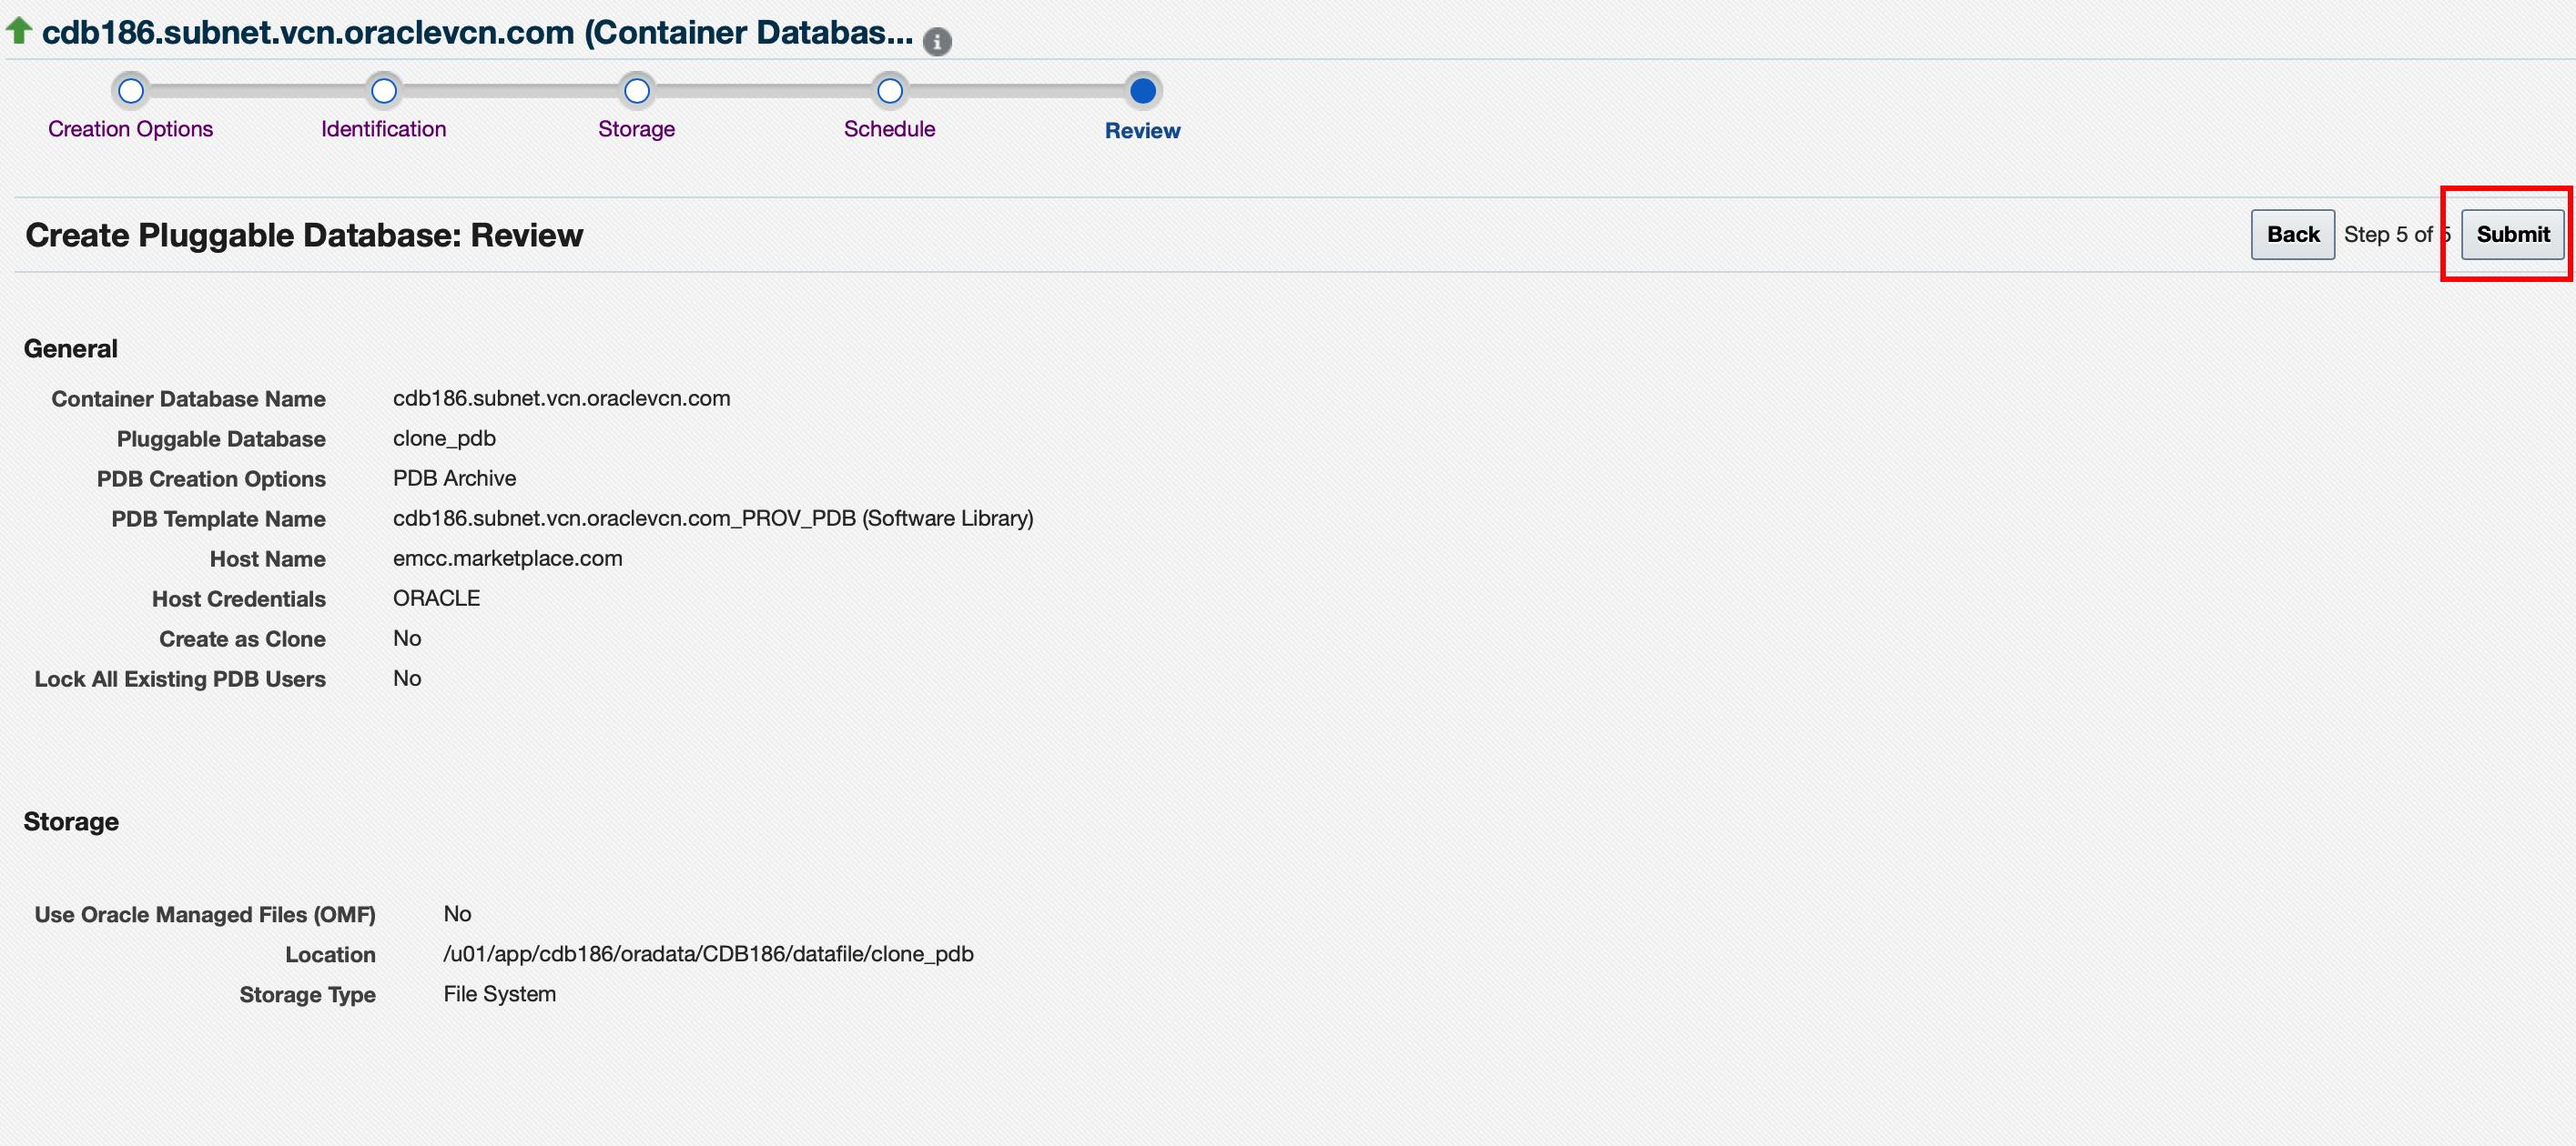
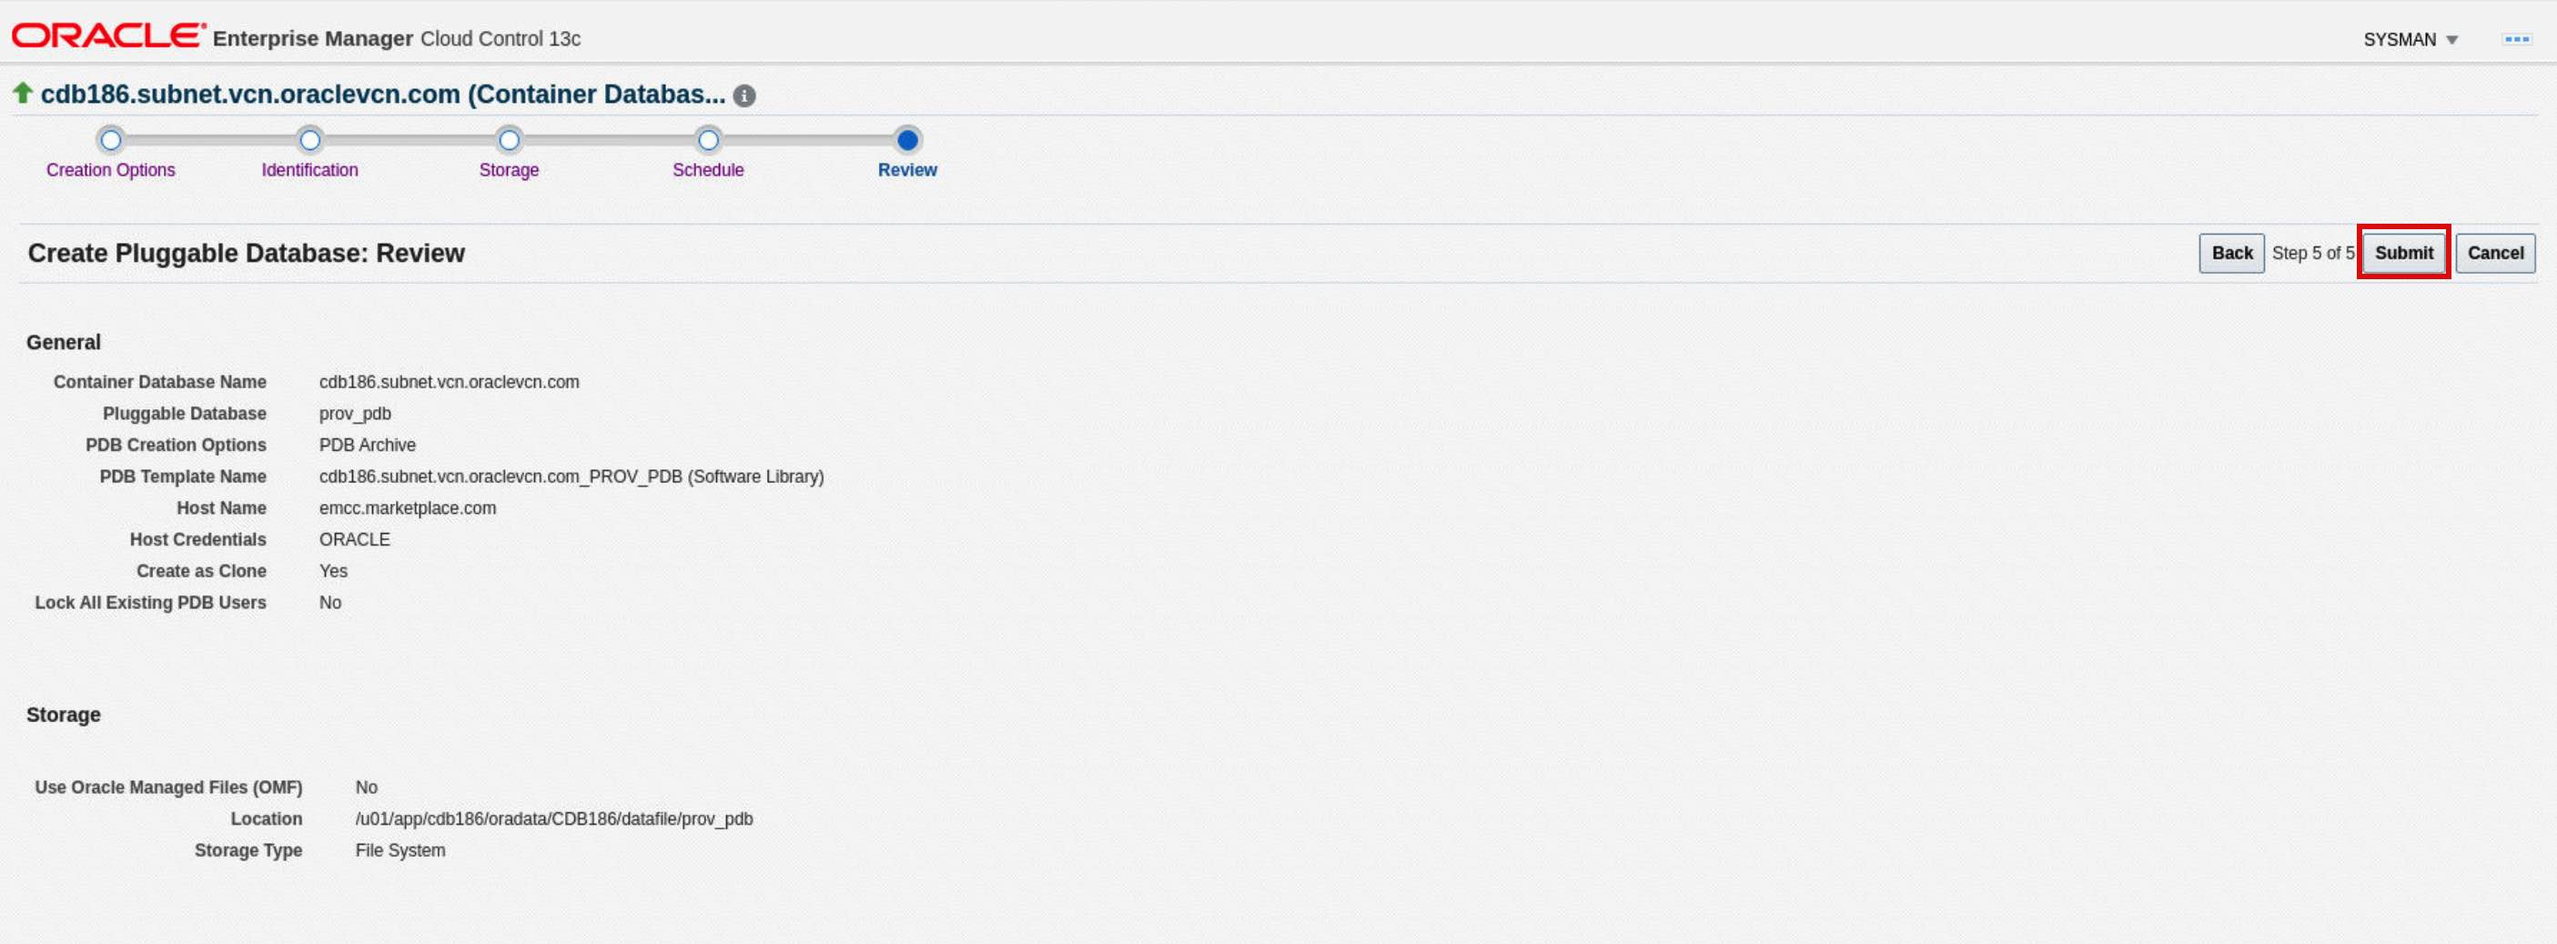
QA Changes

diff --git a/enterprise-manager/emcc-new/em-multitenant-lifecycle-automation/em-multitenant-lifecycle-automation.md b/enterprise-manager/emcc-new/em-multitenant-lifecycle-automation/em-multitenant-lifecycle-automation.md
@@ -74,7 +74,9 @@ The objective of this workshop is to highlight Oracle Enterprise Manager 13c Lif
 
 
 
-5.  In the PDB Operations section, select **Create New Pluggable Databases**, Click Launch
+5.  In the PDB Operations section, select **Create New Pluggable Databases**.
+
+    Click **Launch**
 
     ![](images/2248640eabc0efa2fb32293ec07fb389.jpg " ")
 
@@ -212,9 +214,10 @@ The objective of this workshop is to highlight Oracle Enterprise Manager 13c Lif
 
     ![](images/Task2-step6-latest.jpg " ")
 
-7.   Schedule immediately or later .
-    Click **Next**.
-  ![](images/Task2-Step7.jpg " ")
+7.   Schedule **immediately** or choose later .
+    
+     Click **Next**.
+          ![](images/Task2-Step7.jpg " ")
 
 
 
@@ -234,7 +237,7 @@ The objective of this workshop is to highlight Oracle Enterprise Manager 13c Lif
 
     ![](images/bdbafe949b2bc880e2a09b82f9edaf8a.jpg " ")
 
-8.  Once procedure successfully complete, You can Navigate to **Targets** >> **Databases**.
+8.  Once procedure successfully completes, You can Navigate to **Targets** >> **Databases**.
 
      Click on CDB186 and you will see the PDB you unplugged is no longer in the list.
 
@@ -256,12 +259,15 @@ The objective of this workshop is to highlight Oracle Enterprise Manager 13c Lif
     ![](images/Select-CDB-main-flow-helper.jpg " ")
       ![](images/Select-CDB-main-flow.jpg " ")
 
-12. In the PDB Operations section, select **Create New Pluggable Databases** , Click **Launch**.
+12. In the PDB Operations section, select **Create New Pluggable Databases** and click **Launch**.
 
     ![](images/2248640eabc0efa2fb32293ec07fb389.jpg " ")
 
-13. On the Create Pluggable Database Wizard, in the Create Options section, select **Plug an unplugged PDB**. Select Named credentials **“ORACLE”**
-Click **Next**
+13. On the Create Pluggable Database Wizard, in the PDB Creation Options section, select **Plug an unplugged PDB**. 
+
+    Select Named credentials **“ORACLE”**
+
+    Click **Next**
 
 
     ![](images/5427807b6e4c677bd991497cfc5468ce.jpg " ")
@@ -269,7 +275,7 @@ Click **Next**
 
 14. The Identification page has 3 sections. 
 
-    Under the *PDB Name* section provide a name for the PDB(prov_pdb) and select the option *create as clone*, this ensures Oracle generates a unique PDB DBID, GUID, and other identifiers expected for the new PDB.
+    Under the *PDB Name* section provide a name for the PDB (`prov_pdb`) and select the option *create as clone*, this ensures Oracle generates a unique PDB DBID, GUID, and other identifiers expected for the new PDB.
 
 
     In the next section under *PDB Administrator* we will keep the values default and not do any changes as shown below.
@@ -302,14 +308,17 @@ Click **Next**
     ![](images/a6353f812935eeb6148a79693ae0c4fd.jpg " ")
 
 17.  
-    Schedule immediately or later.
+    Schedule **immediately** or choose to start later.
      Click **Next**.
 
     ![](images/Task2-step17.jpg " ")
 
     
 
-18.  In the review page, verify the details and click **Submit**. You can now click on View Execution Details link to see details.
+18. In the review page, verify the details and click
+    **Submit**. 
+
+    You can now click on **View Execution Details** link to see details.
     ![](images/Task2-step18.jpg " ")
     ![](images/View_execution_details.jpg " ")
 
@@ -347,7 +356,8 @@ Click **Next**
   ![](images/Select-CDB-main-flow.jpg " ")
 
 4.  In the PDB Operations section, select **Create New Pluggable Databases**.
-   Click **Launch**
+
+    Click **Launch**
 
     ![](images/2248640eabc0efa2fb32293ec07fb389.jpg " ")
 
@@ -355,7 +365,7 @@ Click **Next**
 
     Select **Full Clone**.
 
-    Click on the magnifier next to source PDB to choose the source database for clone.
+    Click on the magnifier next to source PDB field to choose the source database for clone.
 
     In the pop up search, type `PROV_PDB` and click search. Choose `PROV_PDB` and click Select.
 
